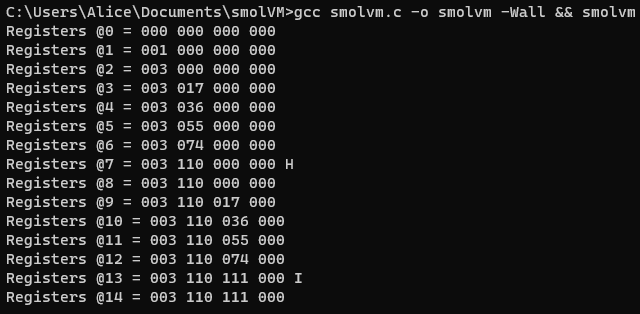
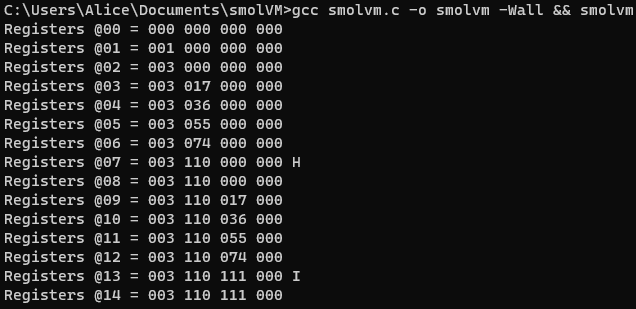
Debug mode space fix

Changed region(s): [[0.0, 0.0, 1.0, 0.9903]]

diff --git a/smolvm.c b/smolvm.c
@@ -6,7 +6,7 @@
 #include <stdio.h>
 
 #define REGISTER_COUNT 4
-#define DEBUG 0 // TODO: accept a runtime flag to toggle this
+#define DEBUG 1 // TODO: accept a runtime flag to toggle this
 
 unsigned char registers[REGISTER_COUNT];
 
@@ -53,7 +53,7 @@ void executeInstruction()
 
 void printState()
 {
-    printf("Registers @%d = ", frame++);
+    printf("Registers @%02d = ", frame++);
     int i;
     for (i = 0; i < REGISTER_COUNT; i++)
     {
